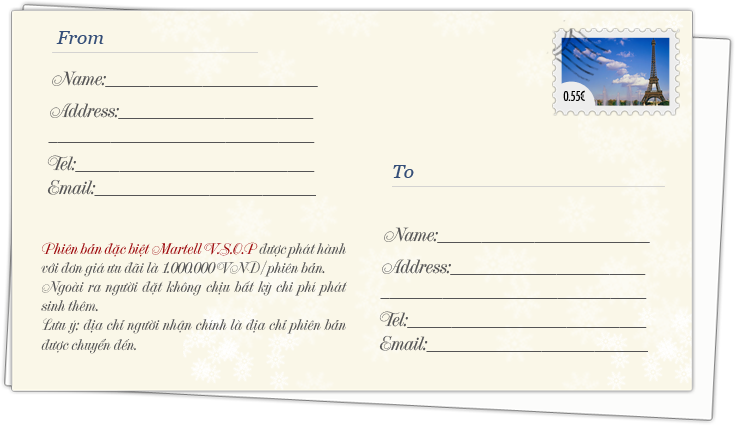
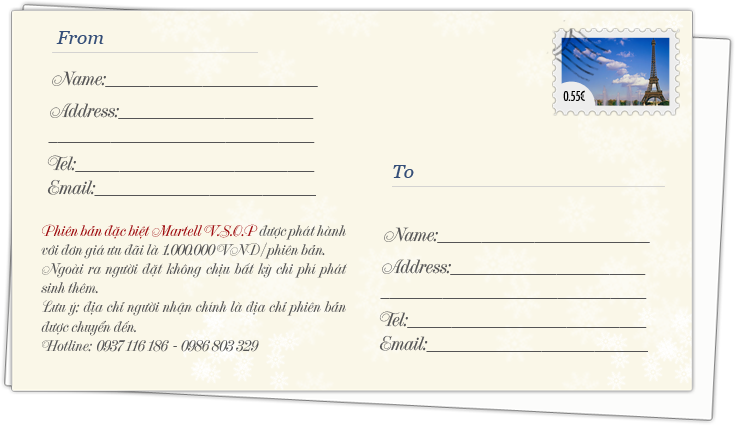
fix some request

Changed region(s): [[0.0599, 0.52, 0.4789, 0.8259]]

diff --git a/source/layout/gioithieu.php b/source/layout/gioithieu.php
@@ -78,8 +78,8 @@
 <p>-	Sau 4 – 5 ngày phiên bản sẽ chyển phát nhanh món quà của bạn đến với người nhận theo địa chỉ bạn đã cung cấp.</p>
 <br/><br/>
 <p><b>IV.	Liênhệ:</b></p> 
-<p>-	Mọi chi tiết vui lòng liên hệ qua mail: <a href="mailto:info@riseabove.vn"><u>info@riseabove.vn</u></a> </p>
-	
+<p>-	Mọi chi tiết vui lòng liên hệ qua mail: <a href="mailto:quatang.riseabove@gmail.com"><u>quatang.riseabove@gmail.com</u></a> </p>
+		Hotline: 098 6803329 hoặc 0937 116186
             </div>
             <div class="tabcontent hide jp-container" id="cont-3-1">
             	<h2>Điều Lệ Bảo Mật</h2>
